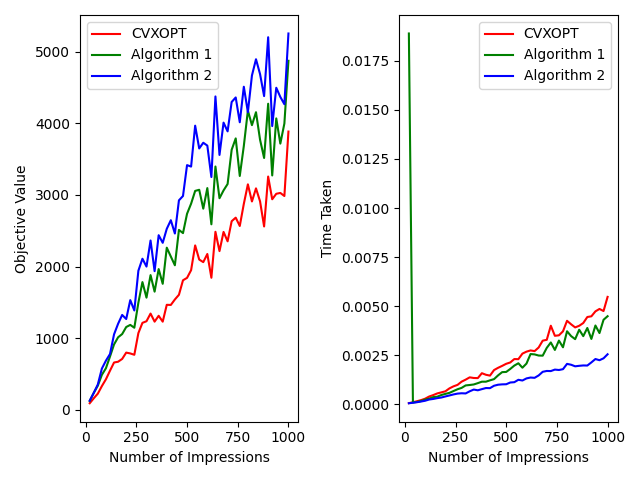
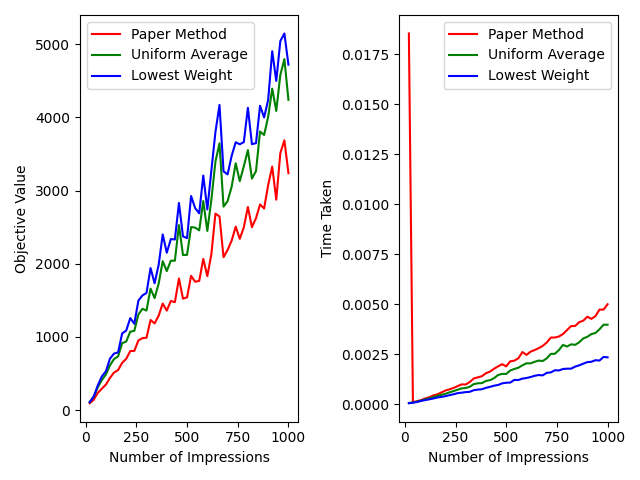
fix synthetic instance

diff --git a/Main/synInst.py b/Main/synInst.py
@@ -1,21 +1,24 @@
+import math
 import random
+import sys
+from impression import Impression
+from advertiser import Advertiser
 
-from oldImp import Impression
-from oldAdv import Advertiser
+def capWeight(weight):
+        # max = (math.log(sys.float_info.max) + 1) * 0.25
+        max = 1000
+        if weight > max:
+            return max
+        else:
+            return weight
 
-def createBudgets(numAdvs):
-    budgets = []
-    for i in range(numAdvs):
-        budgets.append(random.randint(1, 100))
-    return budgets
-
-def createSyntheticInstance(numAdvs, numImps, seed = None, corruptNum = 0):
+def createSyntheticInstance(numAdvs, numImps, seed = None):
     if seed is not None:
         random.seed(seed)
     numTypes = 10
     advsList = []
     for i in range(numAdvs):
-        advsList.append(Advertiser(numTypes, corruptNum))
+        advsList.append(Advertiser(numTypes))
     impsList = []
     for i in range(numImps):
         type = random.randint(0, numTypes-1)
@@ -24,35 +27,20 @@ def createSyntheticInstance(numAdvs, numImps, seed = None, corruptNum = 0):
     weights = []
     for a in advsList:
         for i in impsList:
-            weights.append(a.returnValuation()[i.returnType()])
+            weights.append(a.valuations[i.type])
 
     return advsList, impsList, weights
 
-# def createSyntheticInstance(numAdvs, numImps, seed = None, corruptNum = 0):
-#     # Seed
-#     if seed is not None:
-#         random.seed(seed)
-#     # Advertisers
-#     numTypes = 10
-#     budgets = createBudgets(numAdvs)
-#     advsList = []
-#     valuations = []
-#     for i in range(numAdvs):
-#         advValuations = []
-#         for x in range(numTypes):
-#             advValuations.append(random.expovariate(1))
-#         valuations.append(advValuations)
-#         advsList.append(Advertiser(budgets[x]))
-#     # Impressions
-#     impsList = []
-#     types = []
-#     for i in range(numImps):
-#         types.append(random.randint(0, numTypes-1))
-#         impsList.append(Impression())
-#     # Weights
-#     weights = []
-#     for a in range(len(advsList)):
-#         for i in range(len(impsList)):
-#             weights.append(valuations[a][types[i]])
+def corruption1(weights):
+    for i in range(len(weights)):
+        if random.random() < 0.2:
+            weights[i] = 0
+    return weights
 
-#     return advsList, impsList, weights
+def corruption2(weights):
+    for i in range(len(weights)):
+        if random.random() < 0.25:
+            weights[i] = capWeight(weights[i]*100)
+        elif random.random() > 0.74:
+            weights[i] = capWeight(weights[i]/100)
+    return weights

diff --git a/Main/graph.py b/Main/graph.py
@@ -19,19 +19,19 @@ def graphObjandTimeVsImps(objArr, timeArr, numImpsArr):
         timeArrAlg1.append(timeArr[i][1])
         timeArrAlg2.append(timeArr[i][2])
 
-    axis[0].plot(numImpsArr, objArrCVX, c='red', label="CVXOPT")
-    axis[0].plot(numImpsArr, objArrAlg1, c='green', label='Algorithm 1')
-    axis[0].plot(numImpsArr, objArrAlg2, c='blue', label='Algorithm 2')
-    axis[1].plot(numImpsArr, timeArrCVX, c='red', label='CVXOPT')
-    axis[1].plot(numImpsArr, timeArrAlg1, c='green', label='Algorithm 1')
-    axis[1].plot(numImpsArr, timeArrAlg2, c='blue', label='Algorithm 2')
+    # axis[0].plot(numImpsArr, objArrCVX, c='red', label="CVXOPT")
+    # axis[0].plot(numImpsArr, objArrAlg1, c='green', label='Algorithm 1')
+    # axis[0].plot(numImpsArr, objArrAlg2, c='blue', label='Algorithm 2')
+    # axis[1].plot(numImpsArr, timeArrCVX, c='red', label='CVXOPT')
+    # axis[1].plot(numImpsArr, timeArrAlg1, c='green', label='Algorithm 1')
+    # axis[1].plot(numImpsArr, timeArrAlg2, c='blue', label='Algorithm 2')
 
-    # axis[0].plot(numImpsArr, objArrCVX, c='red', label="Paper Method")
-    # axis[0].plot(numImpsArr, objArrAlg1, c='green', label='Uniform Average')
-    # axis[0].plot(numImpsArr, objArrAlg2, c='blue', label='Lowest Weight')
-    # axis[1].plot(numImpsArr, timeArrCVX, c='red', label='Paper Method')
-    # axis[1].plot(numImpsArr, timeArrAlg1, c='green', label='Uniform Average')
-    # axis[1].plot(numImpsArr, timeArrAlg2, c='blue', label='Lowest Weight')
+    axis[0].plot(numImpsArr, objArrCVX, c='red', label="Paper Method")
+    axis[0].plot(numImpsArr, objArrAlg1, c='green', label='Uniform Average')
+    axis[0].plot(numImpsArr, objArrAlg2, c='blue', label='Lowest Weight')
+    axis[1].plot(numImpsArr, timeArrCVX, c='red', label='Paper Method')
+    axis[1].plot(numImpsArr, timeArrAlg1, c='green', label='Uniform Average')
+    axis[1].plot(numImpsArr, timeArrAlg2, c='blue', label='Lowest Weight')
 
     # Labels
     axis[0].set_xlabel('Number of Impressions')

diff --git a/Main/advertiser.py b/Main/advertiser.py
@@ -1,24 +1,21 @@
 import random
+from sortedcontainers import SortedList
+from impression import Impression
 import math
 import sys
-from impression import Impression
-from sortedcontainers import SortedList
 
 class Advertiser:
     
-    def __init__(self, budget = random.randint(1, 100)):
-        self.budget = budget
-        self.impressions = SortedList(key=Impression.weight_key)
-
-    def capValuation(self, val):
-        max = (math.log(sys.float_info.max) + 1) * 0.25
-        if val > max:
-            return max
-        else:
-            return val
+    def __init__(self, numTypes):
+        self.budget = random.randint(1, 100)
+        self.valuations = []
+        self.impressions = SortedList(key=Impression.weight_key) # for alg1
+        for x in range(numTypes):
+            self.valuations.append(random.expovariate(1))
 
     def __str__(self):
-        return "Budget: " + str(self.budget)
+        # return "Budget: " + str(self.budget)
+        return "vals " + str(self.valuations) + " budget " + str(self.budget)
 
     def __repr__(self):
-        return "Budget: " + str(self.budget)
+        return "vals " + str(self.valuations) + " budget " + str(self.budget)

diff --git a/Main/impression.py b/Main/impression.py
@@ -2,16 +2,20 @@ import random
 
 class Impression:
     
-    def __init__(self):
+    def __init__(self,type):
+        self.type = type # for creating synthetic instances
         self.displayTime = random.gauss(random.random(),1.5)
-        self.weight = 0 # for alg1
-        self.number = 0 # for alg1
+        self.weight = 0
+        self.number = 0
 
     def __str__(self):
-        return "Number: " + str(self.number) + " Weight: " + str(self.weight)
+        return "Type: " + str(self.type) + " Weight: " + str(self.weight)
     
     def __repr__(self):
-        return "Number: " + str(self.number) + " Weight: " + str(self.weight)
+        return "Type: " + str(self.type) + " Weight: " + str(self.weight)
+    
+    def returnType(self):
+        return self.type
     
     def weight_key(impression):
         return impression.weight

diff --git a/Main/main.py b/Main/main.py
@@ -28,7 +28,7 @@ def main():
     for loop in range(50):
         print(loop)
         count += 20
-        a, i, w = synInst.createSyntheticInstance(50, count, corruptNum=0)
+        a, i, w = synInst.createSyntheticInstance(50, count)
         # numA, numI, w = bigData()
         # a, i, _ = createSyntheticInstance(numA, numI, corruptNum=3)
         # Optimal Algorithm

diff --git a/Main/alg1.py b/Main/alg1.py
@@ -2,7 +2,6 @@ import time
 import numpy as np
 import sys
 from advertiser import Advertiser
-sys.path.insert(0, '/home/amninder/Desktop/Folder_2')
 
 def updateBeta1(adv, alpha): # Paper's conservative method
     B = adv.budget
